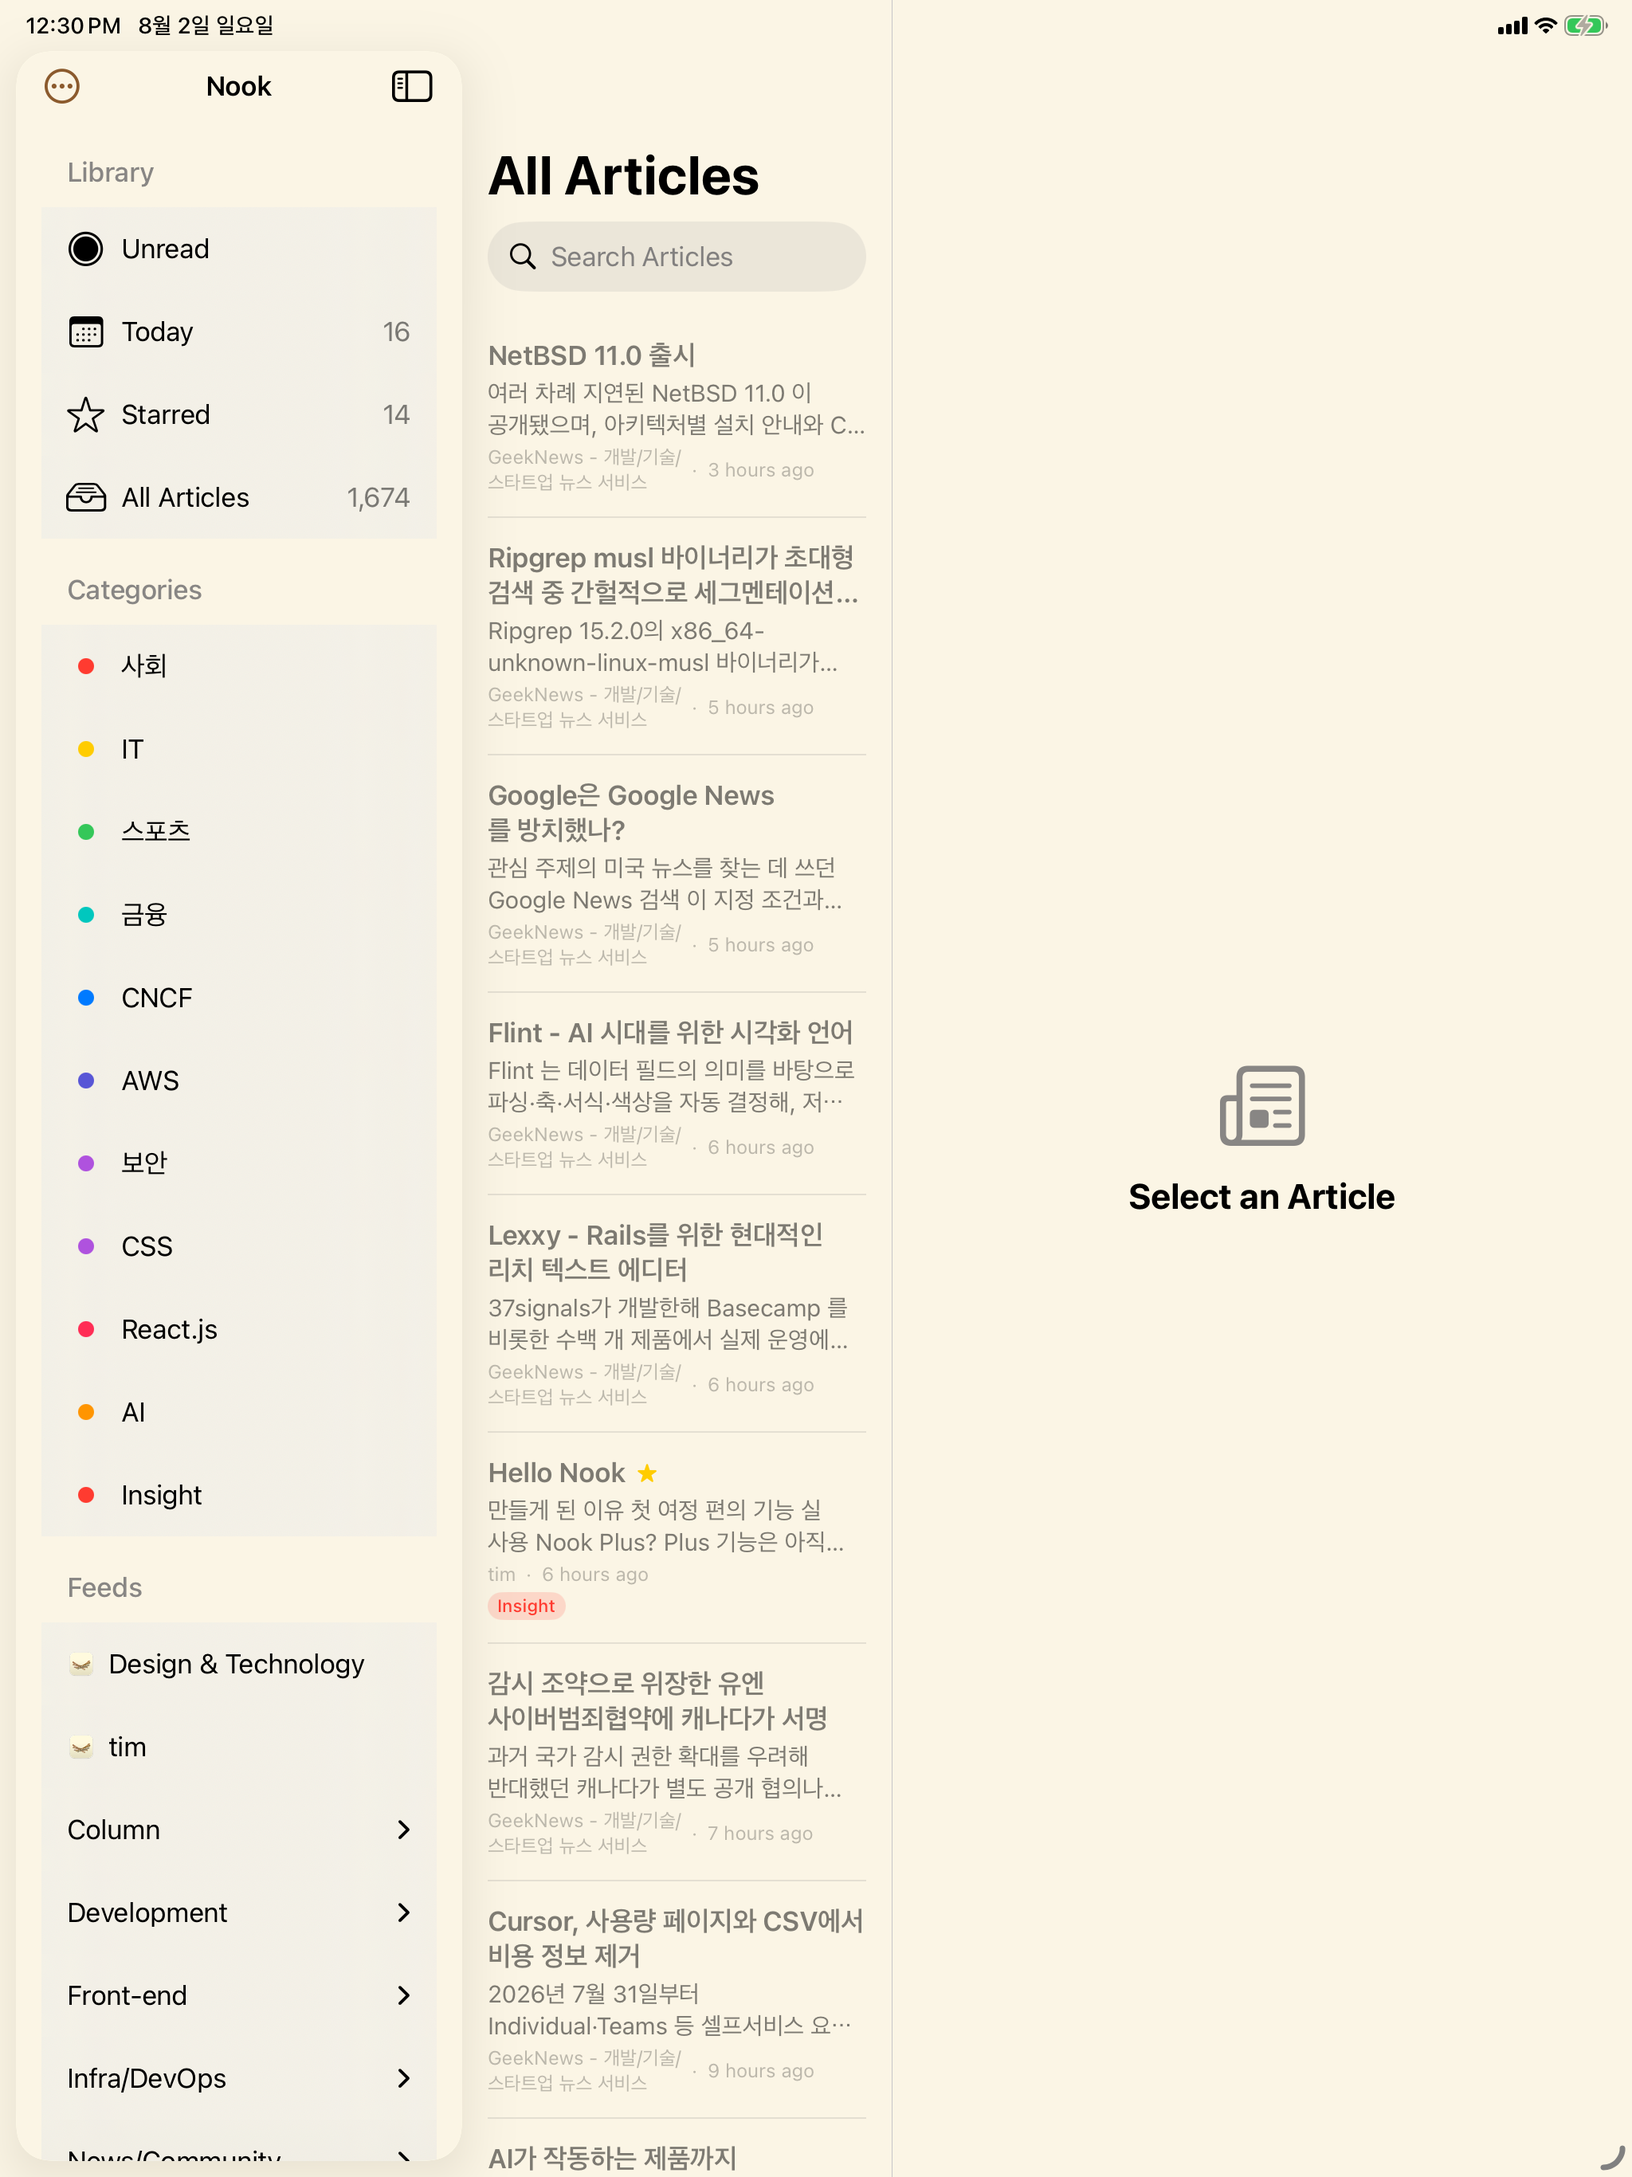
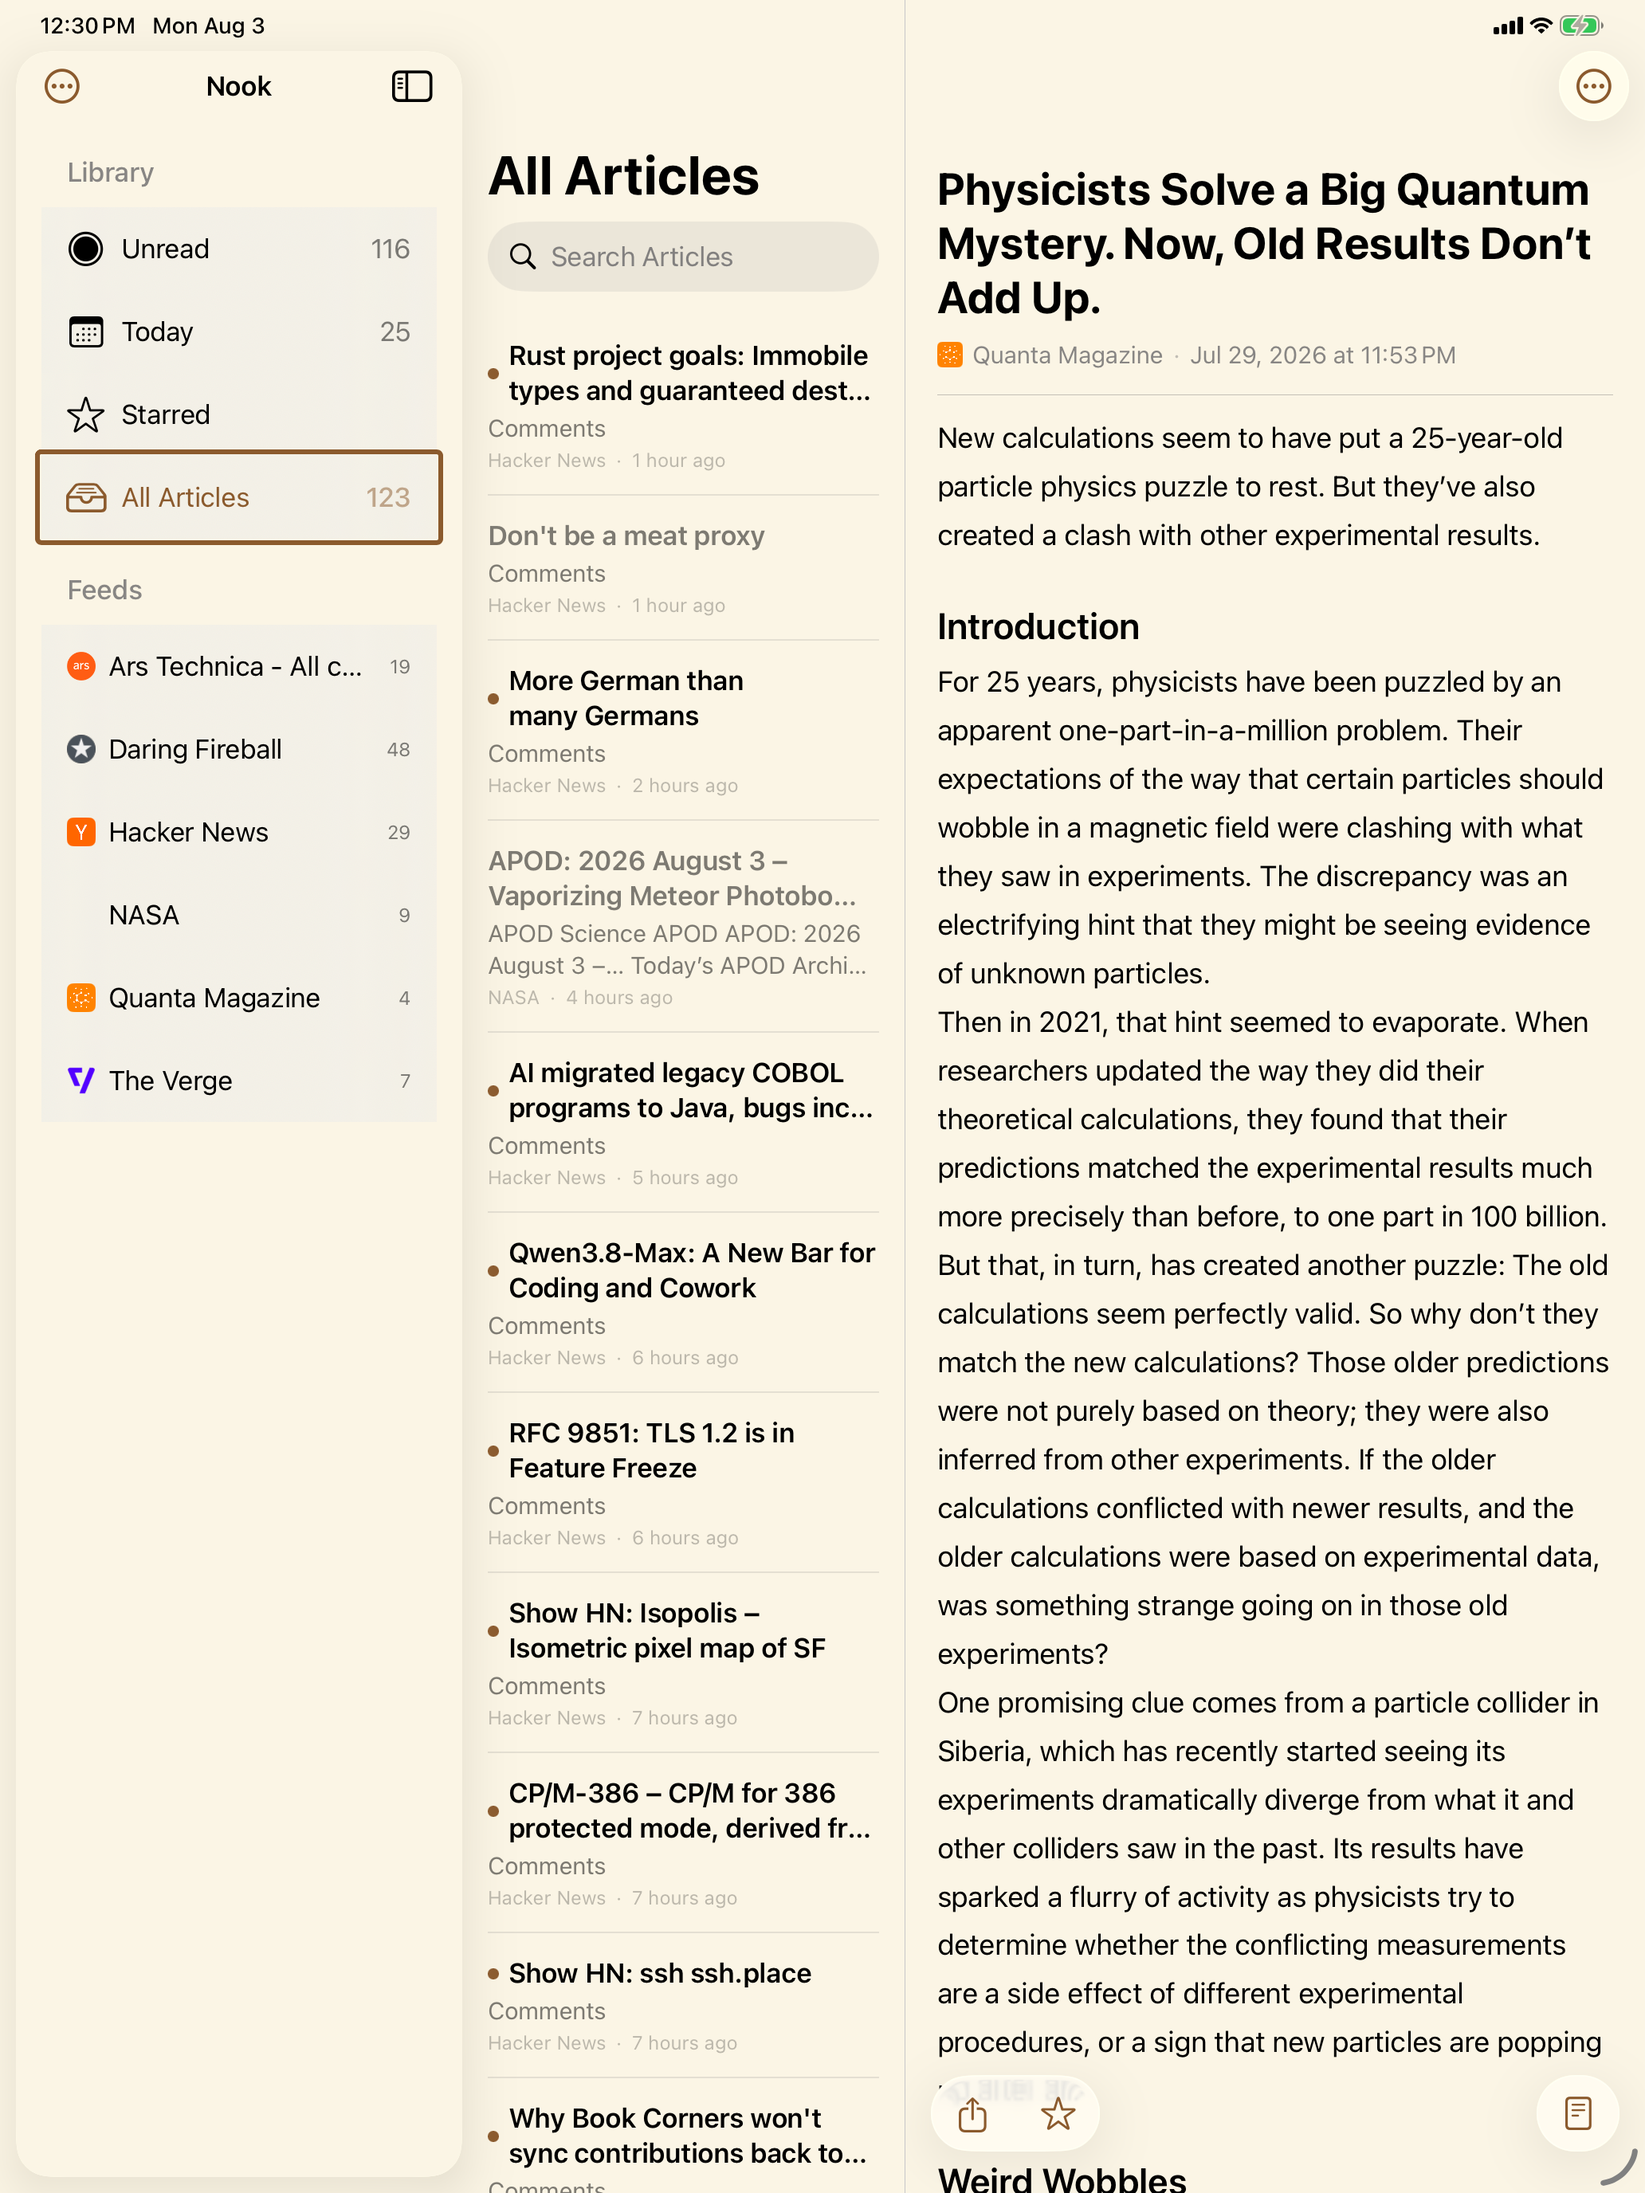
feat: capture the English App Store set for iPhone and iPad
The phone slides had been rendering shared captures from docs/screenshots
that were never localized, so the English listing showed a Korean library.
Capture all five phone scenes and both tablet scenes from erased simulators
running in English, whose welcome tour subscribed the English starter
bundles — so the lists hold real English content and no personal data.

capture-simulator.sh now picks the destination from the capture's own size
instead of assuming a 13-inch iPad, which is what kept the phone folder
empty. The README records what a locale's capture actually needs: a device
in that language, an erase for a true first launch, and list-title
translation off so no row is left reading "Translating…".

diff --git a/marketing/app-store/README.md b/marketing/app-store/README.md
@@ -25,28 +25,37 @@ output/
     ipad-13/     # 2048 x 2732 PNG
     mac/         # 2880 x 1800 PNG
   en/
-    iphone-6.9/
-    mac/
   ja/
-    iphone-6.9/
-    mac/
   zh-Hans/
-    iphone-6.9/
-    mac/
 ```
+
+Every locale gets the same platforms and the same slides.
 
 PNG files are rendered without an alpha channel, as required by App Store Connect.
 
 ## Capture from Simulator
 
-Prepare the desired screen in the booted 13-inch iPad simulator, then capture its native pixels:
+Prepare the desired screen in a booted simulator, then capture its native pixels:
 
 ```sh
 make app-store-capture LOCALE=ko NAME=01-library
 make app-store-capture LOCALE=ko NAME=03-reader
 ```
 
-Use `SIMULATOR='iPad Pro 13-inch (M5)'` when capturing from a different device. Repeat with `LOCALE=en`, `ja`, or `zh-Hans` after changing Nook's app language and relaunching it. The script fixes the status bar, validates the App Store-compatible dimensions, and writes into `captures/<locale>/ipad-13/`.
+Pass `SIMULATOR='iPhone 16 Pro Max'` (or another 6.9-inch iPhone) for the phone set and `SIMULATOR='iPad Pro 13-inch (M5)'` for the tablet set. The script fixes the status bar, validates the App Store-compatible dimensions, and chooses the folder from the capture's own size: a 6.9-inch iPhone lands in `captures/<locale>/iphone-6.9/`, a 13-inch iPad in `captures/<locale>/ipad-13/`.
+
+Capture a locale from a device in that language, not only from Nook's in-app language setting — a new simulator inherits the Mac's language. With the device shut down, set its language and relaunch:
+
+```sh
+xcrun simctl shutdown <device>
+plutil -replace AppleLanguages -json '["en"]' \
+  ~/Library/Developer/CoreSimulator/Devices/<udid>/data/Library/Preferences/.GlobalPreferences.plist
+xcrun simctl boot <device>
+```
+
+`simctl erase` first for a true first launch: `simctl uninstall` leaves preferences behind in `cfprefsd`, so the welcome tour does not reappear. The `en` set comes from an erased device whose welcome tour subscribed the English starter bundles — Hacker News, The Verge, Ars Technica, Daring Fireball, Quanta, and NASA — so the lists hold real content and no personal data.
+
+Turn "Translate titles in the list" off (Settings › Experimental) before capturing a locale whose feeds are already in that language, then clear the translation cache. With nothing to translate, every row keeps a "Translating…" badge.
 
 ## Update
 
